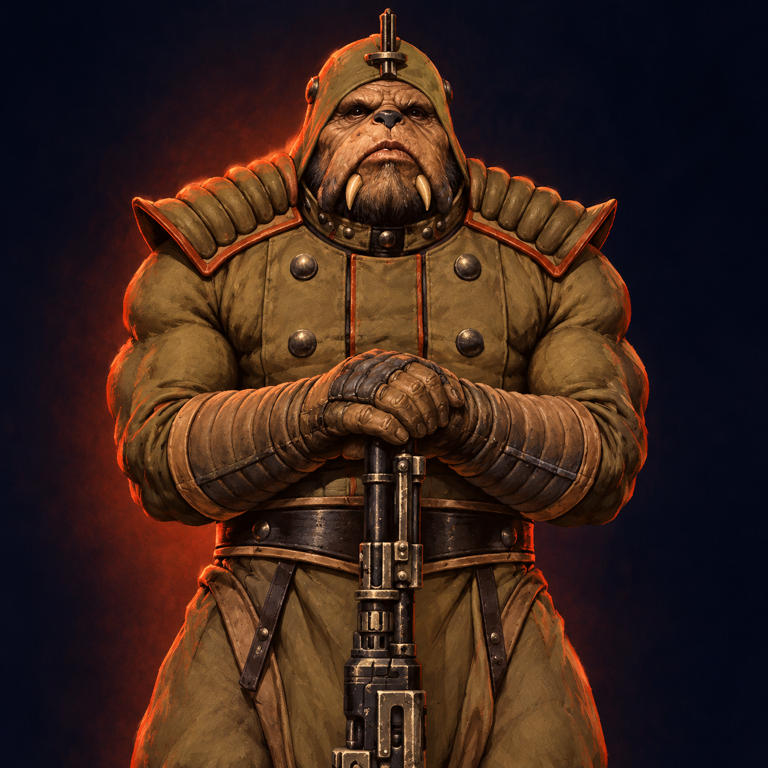
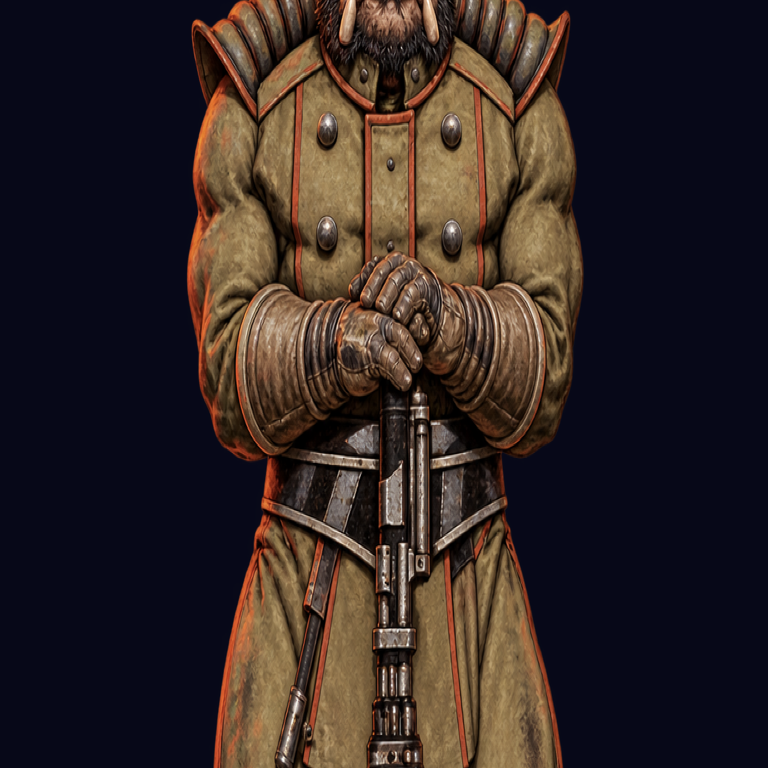
Rifà le carte pilota con figure intere e cornici

diff --git a/reborn/schede/pg_kogus.md b/reborn/schede/pg_kogus.md
@@ -14,4 +14,4 @@ Kayn maschio molto robusto e massiccio, con testa larga e arrotondata, fronte ba
 
 ## Prompt
 
-Faithfully remaster Kogus from the supplied original drawing into a polished painted bust portrait. Stocky powerful Kayn alien male; broad rounded animal-like head with low forehead, tiny deep-set eyes, wide blunt muzzle, heavy cheeks, pronounced lower tusks and dense jaw fur; small domed helmet with one short antenna; thick neck and muscular arms. Preserve the ribbed shoulder rolls, double-breasted tunic, broad belt, padded forearm guards and both hands stacked around the vertical long firearm centered in front of his body. Cohesive painterly science-fiction illustration, late-1970s paperback-cover art remastered today; dark navy background, warm rebel rim light, earthy olive and brown uniform. Do not humanize or slim him. No text, letters, numbers, logos, border, frame, watermark, or recognizable Star Wars elements.
+Faithfully remaster Kogus as a complete isolated full-body figure from helmet antenna to both boots and the bottom of the weapon. Preserve his massive Kayn anatomy, broad muzzle, lower tusks, domed helmet, ribbed shoulders, double-breasted tunic, belt, padded forearms, baggy trousers and wrapped legs. Keep both hands stacked around the long firearm held vertically at the center. Painterly late-1970s science-fiction illustration remastered today, warm rebel light and earthy olive palette. Transparent background. Do not humanize or slim him; no text, logos, scenery, extra equipment or recognizable Star Wars elements.

diff --git a/reborn/schede/pg_zina_adora.md b/reborn/schede/pg_zina_adora.md
@@ -14,4 +14,4 @@ Rhone giovane, slanciata, ripresa frontalmente. Ha un viso ovale, grandi occhi s
 
 ## Prompt
 
-Faithfully remaster Zina Adora from the supplied original drawing. Preserve the exact recognizable character and costume; translate the line art into a polished painted bust portrait. Young adult Rhone woman; same oval face, large dark eyes, shoulder-length dark wavy hair with center part, calm frontal expression; same long flowing one-piece princess gown with narrow curved decorated upper band, central jewel, very long loose sleeves gathered at the wrists, exposed midriff, high central waist ornament and floor-length lower panels. The costume must read as an elegant late-1970s science-fiction gown, not modern lingerie. Cohesive painterly science-fiction illustration, late-1970s paperback-cover art remastered today; dark navy background, warm orange-red rebel rim light, ivory gown with muted red trim. Fidelity over invention. No text, letters, numbers, logos, border, frame, watermark, or recognizable Star Wars elements.
+Faithfully remaster Zina Adora as a complete isolated full-body figure from hair to gown hem. Preserve her frontal symmetric pose, face, hair and the exact costume concept: curved decorated bust band, central jewel, exposed midriff, long loose sleeves, high waist ornament and two floor-length panels. Painterly late-1970s science-fiction illustration remastered today, warm rebel rim light, ivory and muted-red gown. Transparent background. No text, logos, scenery, extra objects or recognizable Star Wars elements.

diff --git a/reborn/LEGGIMI.md b/reborn/LEGGIMI.md
@@ -2,17 +2,19 @@
 
 ## Fatto
 
-- creati i tre ritratti pilota di Zina Adora, Redjac e Kogus in formato PNG 768×768;
+- create le tre figure intere pilota di Zina Adora, Redjac e Kogus su fondo trasparente;
+- derivati dalle figure intere i ritratti PNG 768×768, evitando interpretazioni separate dello stesso personaggio;
 - scritte le tre schede descrittive con elementi invarianti e prompt;
 - creati i confronti affiancati tra originale e ritratto nuovo;
-- create tre anteprime complete delle carte, più un foglio riepilogativo, usando testi e valori reali del gioco;
+- create le cornici senza testo `cornice_ribelli.png` e `cornice_imperiali.png` in formato 764×1154;
+- composte tre anteprime complete con figura intera, cornice, testi e valori reali del gioco;
 - registrati i tre file nel manifest con stato `da_approvare`.
 
 ## Da approvare
 
 Il lavoro è fermo al primo checkpoint previsto. Stefano deve approvare o richiedere modifiche ai tre ritratti pilota prima che venga prodotto qualsiasi altro personaggio.
 
-Le immagini in `reborn/anteprime/` mostrano una proposta di composizione REBORN in formato 764×1154. Sono mockup di approvazione: non sono ancora collegati al renderer runtime e non costituiscono le cornici definitive.
+Le immagini in `reborn/anteprime/` mostrano la carta pilota completa in formato 764×1154. Le cornici usate sono salvate separatamente, senza testo, in `assets_reborn/carte/`. Il renderer runtime non è ancora stato modificato.
 
 ## Resta da fare
 

diff --git a/reborn/schede/pg_redjac.md b/reborn/schede/pg_redjac.md
@@ -14,4 +14,4 @@ Rhone adulto dal volto severo e baffuto, in posizione militare frontale. Porta u
 
 ## Prompt
 
-Faithfully remaster Redjac from the supplied original drawing into a polished painted bust portrait. Adult Rhone male imperial knight, stern narrow moustached face, compact cylindrical helmet with one short vertical antenna; rigid frontal posture; ornate asymmetrical dark plate armor with large pointed shoulder guards, circular chest emblems, segmented armor, wide utility belt and long dark cape. Preserve the pistol held upright in his right hand and the sheathed sword at his left waist. Cohesive painterly science-fiction illustration, late-1970s paperback-cover art remastered today; dark navy-to-steel-blue background, cold rim light and restrained aged-gold highlights. Fidelity over invention. No text, letters, numbers, logos, border, frame, watermark, or recognizable Star Wars elements.
+Faithfully remaster Redjac as a complete isolated full-body figure from helmet antenna to boots and cape hem. Preserve the stern moustached face, cylindrical helmet, rigid stance, pointed shoulder guards, circular chest emblems, segmented armor, belt and long cape. Keep the pistol upright in his right hand and the sheathed sword at his left waist. Painterly late-1970s science-fiction illustration remastered today, cold imperial light with aged-gold highlights. Transparent background. No text, logos, scenery, extra weapons or recognizable Star Wars elements.
